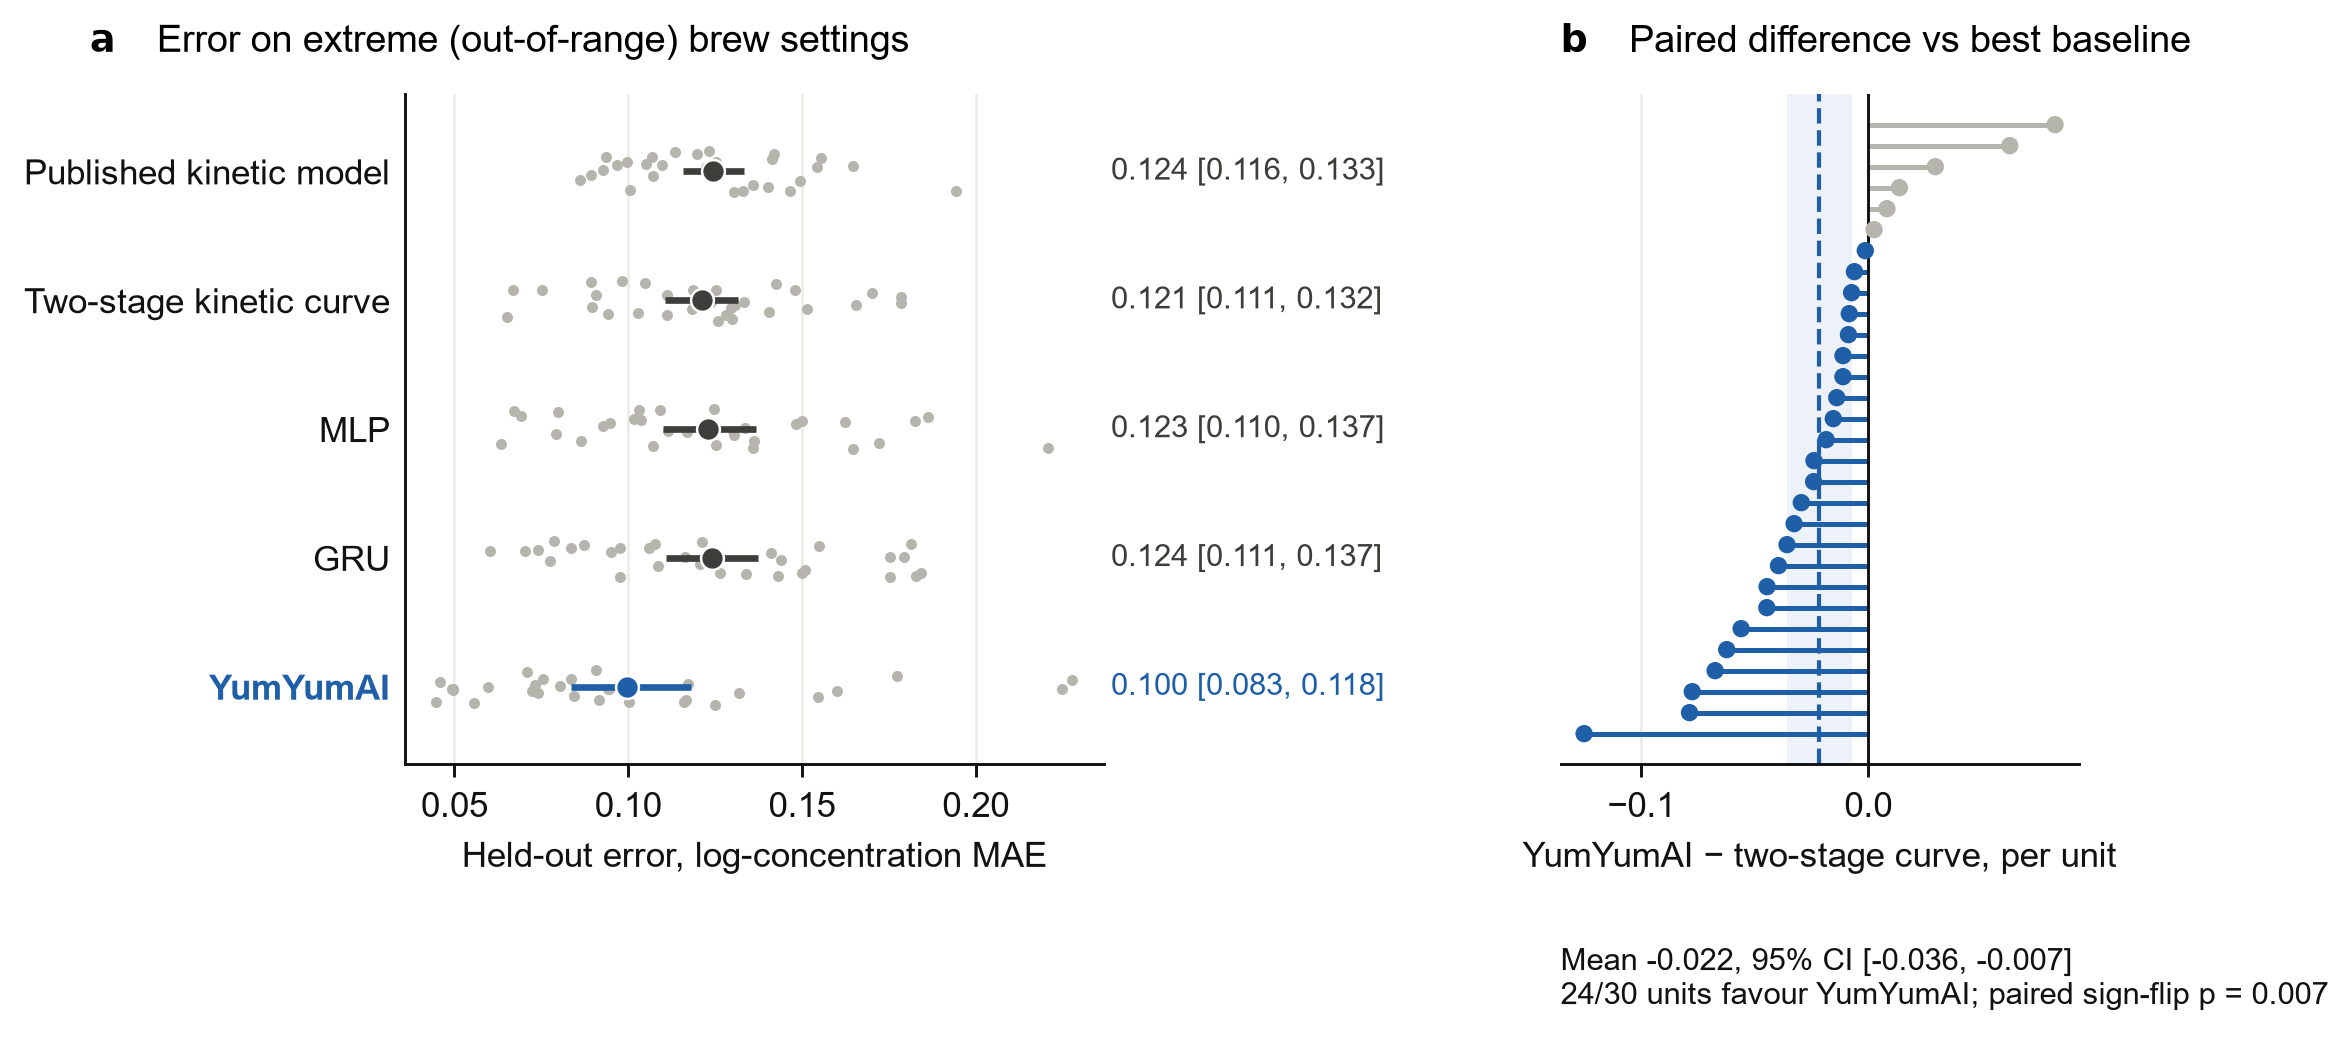
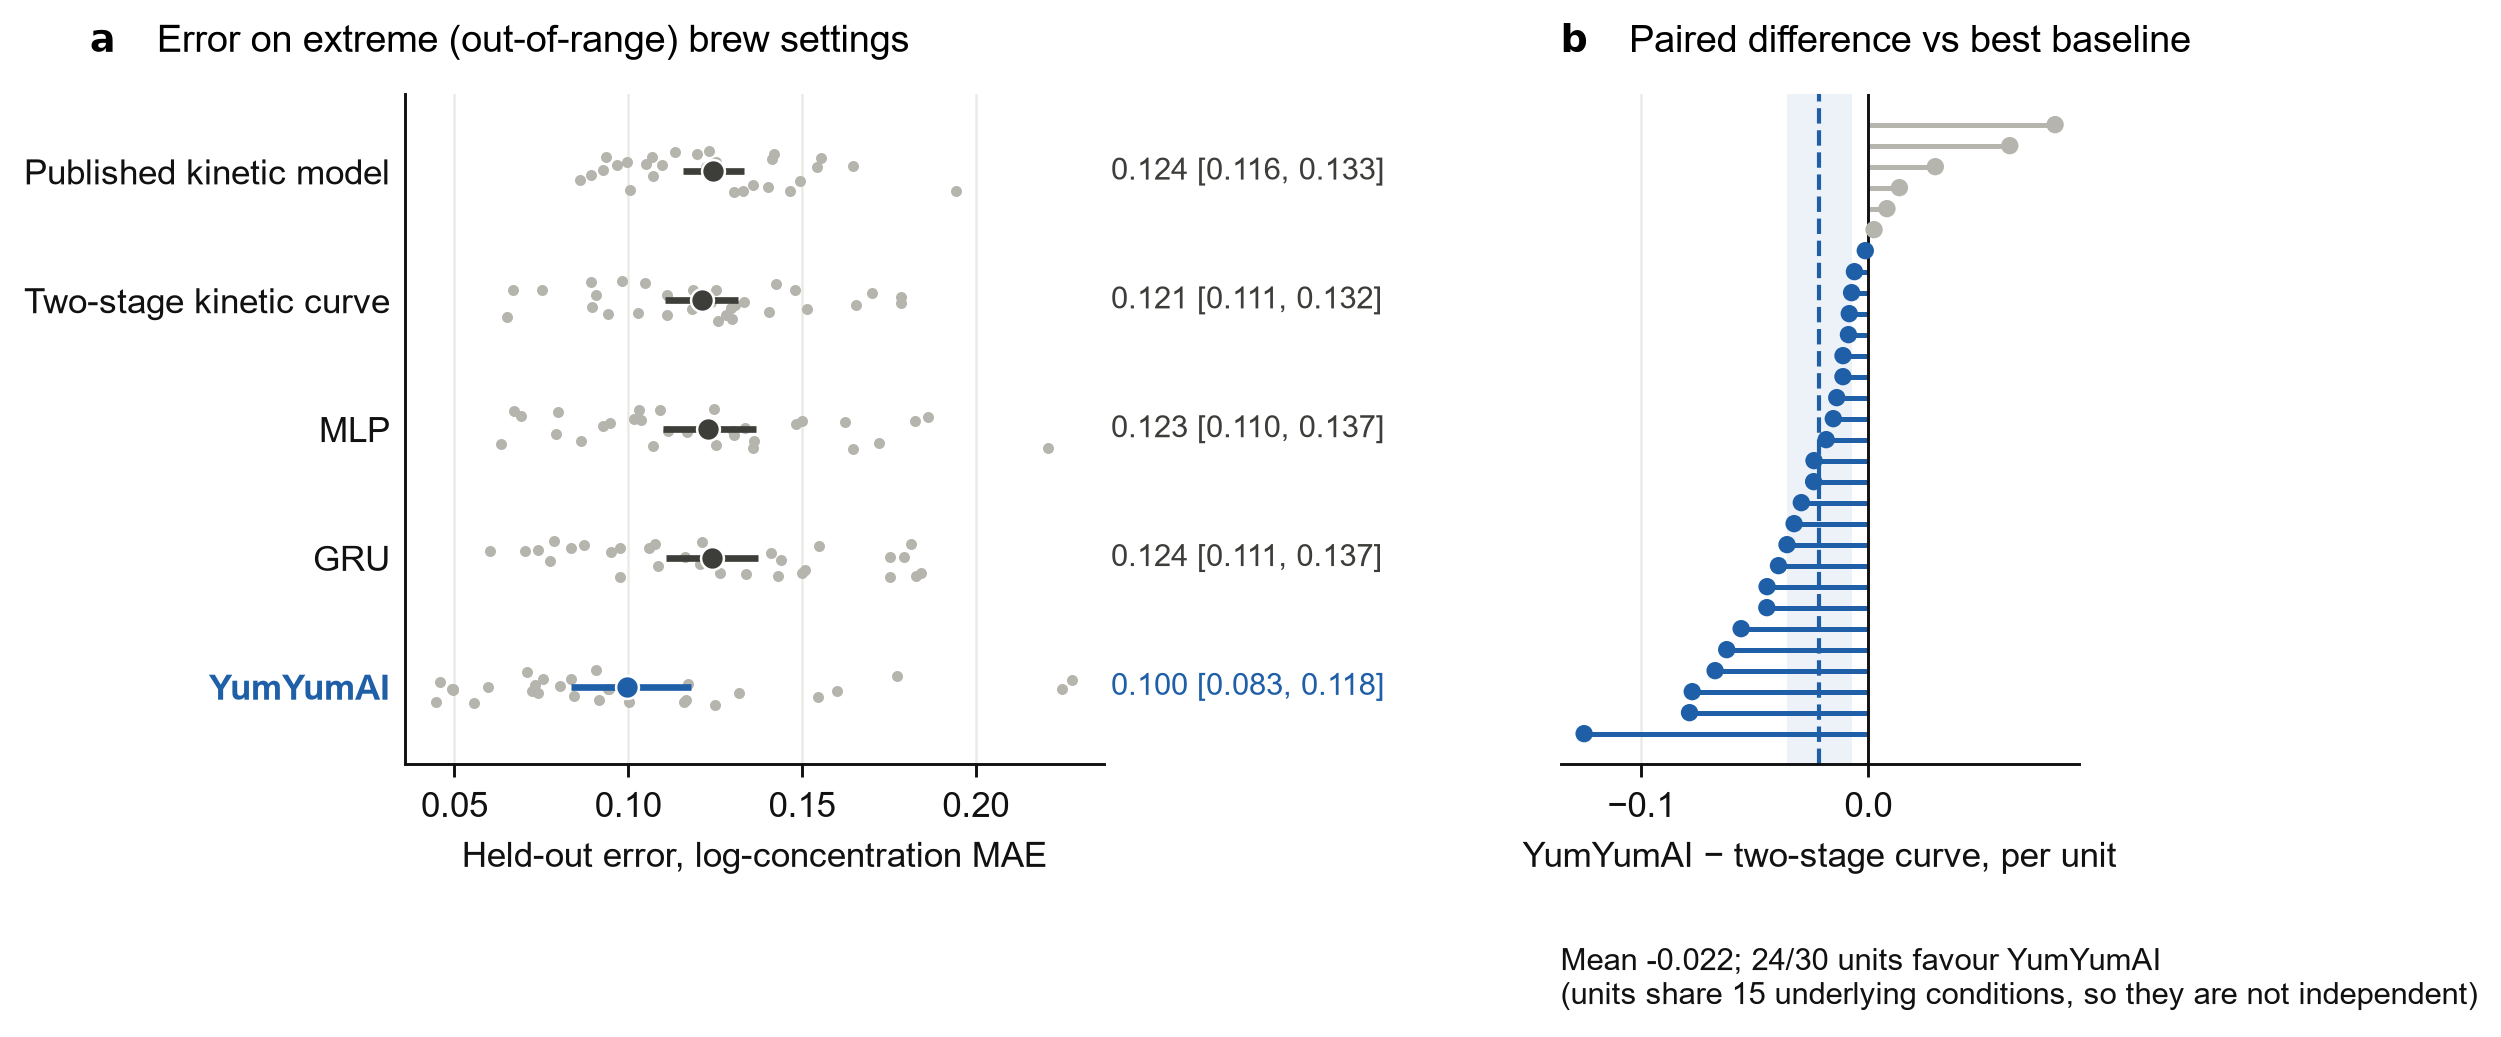
Drop espresso p-value (held-out units share conditions); note approximate CIs

diff --git a/README.md b/README.md
@@ -19,7 +19,8 @@ seeds and a configuration fixed before seeing results.
 
 *Figure 1. (a) Error on held-out extreme brew settings. Grey points are individual held-out units (30); dots and bars
 are the mean and 95% bootstrap CI over units. (b) Per-unit paired difference against the best baseline; blue units
-favour YumYumAI. Shaded band: 95% CI of the mean difference.*
+favour YumYumAI. Shaded band: 95% bootstrap CI of the mean difference. Units share underlying conditions, so these
+intervals are approximate and likely too narrow.*
 
 | Model | Error on unseen settings (log-concentration MAE, lower is better) |
 |---|---|
@@ -29,7 +30,9 @@ favour YumYumAI. Shaded band: 95% CI of the mean difference.*
 | Generic sequence model (GRU) | .124 |
 | **YumYumAI** | **.100** |
 
-- YumYumAI beats the best alternative on **24 of 30** held-out units (paired sign-flip test, p = .007).
+- YumYumAI beats the best alternative on **24 of 30** held-out units. The 30 units are built from only 15
+  underlying conditions (one condition can sit at the extreme of several factors), so they are not independent and we
+  do not report a p-value for this comparison.
 - On total dissolved solids the error drops by about half (.108 vs .206 for the two-stage curve).
 
 On conditions *inside* the training range, every flexible model (including ours) ties at about .076–.079. Being
@@ -72,7 +75,8 @@ still make because tasters disagree (in-sample estimate; individual conditions c
 ## Evaluation practice
 
 - Whole conditions are held out, never individual shots from a condition the model has seen.
-- Configuration is fixed before results. Every comparison uses ≥6 seeds and a paired test across held-out units.
+- Configuration is fixed before results. Every comparison uses ≥6 seeds and is paired across held-out units; p-values
+  are reported only where those units are independent.
 - Missing measurements stay missing and are masked out of the loss, never imputed.
 - Negative and null results are reported. For example, on one USDA dataset our model was *worse* on
   ordinary held-out foods; that result shaped the next experiments.
